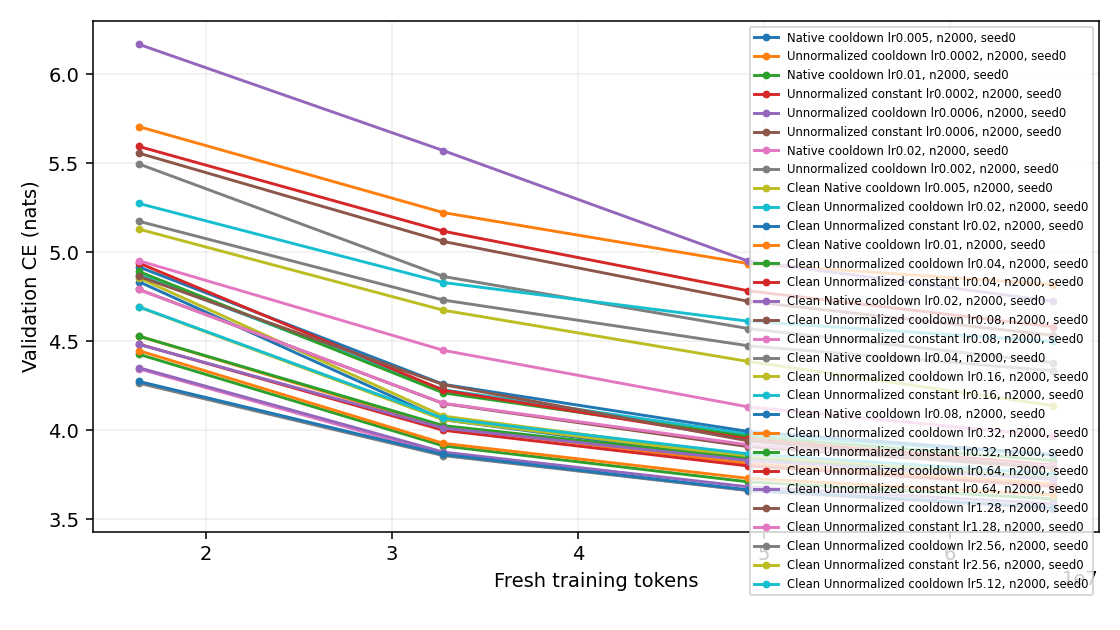
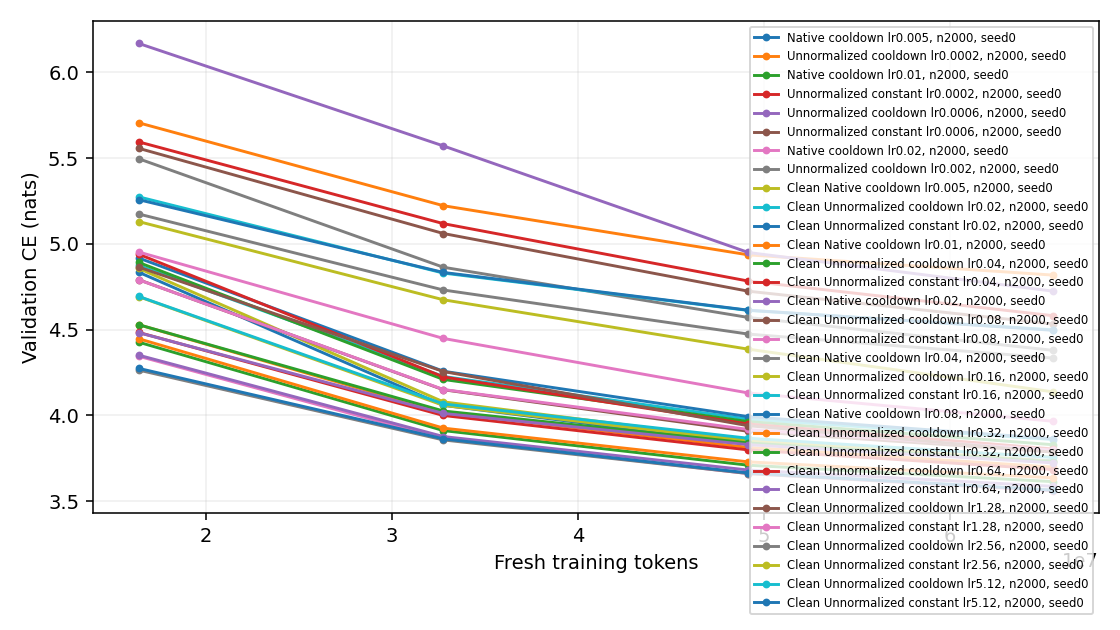
Update live Muon experiment results

diff --git a/research/unnormalized_muon/RESULTS.md b/research/unnormalized_muon/RESULTS.md
@@ -28,6 +28,7 @@ One B300 per job. CE is token cross-entropy (nats); lower is better. Rows with d
 | um-clean-grid-07-1-cooldown-lr2p56 | Clean Unnormalized cooldown | 2000 | 0 | 2.56 | 4.333797 | 1.313749 | — | 154.67 |
 | um-clean-grid-07-2-constant-lr2p56 | Clean Unnormalized constant | 2000 | 0 | 2.56 | 4.136932 | 1.254105 | — | 149.27 |
 | um-clean-grid-08-1-cooldown-lr5p12 | Clean Unnormalized cooldown | 2000 | 0 | 5.12 | 4.498638 | 1.363555 | — | 152.28 |
+| um-clean-grid-08-2-constant-lr5p12 | Clean Unnormalized constant | 2000 | 0 | 5.12 | 4.496089 | 1.362771 | — | 153.52 |
 | um-fw-diagnostic-001 | FW backtracking | 64 | 0 | 0.02 | 6.469995 | 1.960658 | — | 95.07 |
 | um-fw-diagnostic-002 | FW backtracking | 64 | 0 | 0.02 | 6.900428 | 2.091122 | — | 117.14 |
 | um-screen-00-0-native-lr0p005 | Native cooldown | 2000 | 0 | 0.005 | 3.734536 | 1.132046 | — | 145.49 |
@@ -43,7 +44,7 @@ One B300 per job. CE is token cross-entropy (nats); lower is better. Rows with d
 
 Review of um-fw-diagnostic-001: Compiled training f0 compared against functional candidate losses; vanishing-step mismatch2-4e-5 exceeded tolerance, leading to curvature1e186 and45 skipped steps. Replaced by paired functional reference and candidates; retain all645 measured forwards and GPUcost.
 
-Conservative charged/reserved total: 2.4913 / 10 B300 GPU-hours. Includes prior smoke/failed attempts and current maximum-duration reservations. Three-slot central queue; one B300 per run.
+Conservative charged/reserved total: 2.2056 / 10 B300 GPU-hours. Includes prior smoke/failed attempts and current maximum-duration reservations. Three-slot central queue; one B300 per run.
 
 Current CLEAN comparison: no row equilibration, NorMuon, or Muon decay in either arm. Same five Polar Express steps and Frobenius correction; scale by the per-matrix nonnegative FP32 inner product of the native Nesterov input with the NS/Frobenius direction. Shape scaling occurs once outside the scalar. Legacy rows retain production extras and must be compared separately. Constant schedule changes only matrix LR; auxiliary schedules and momentum remain matched.
 
